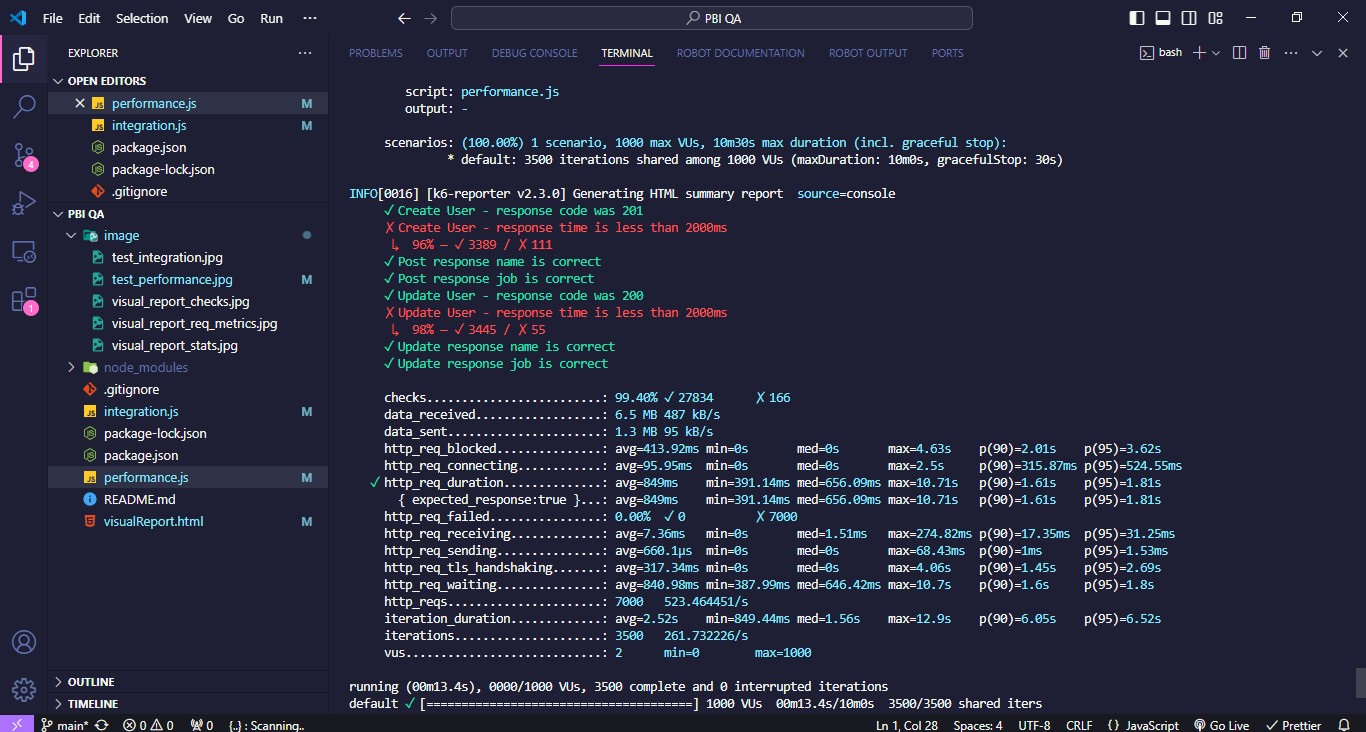
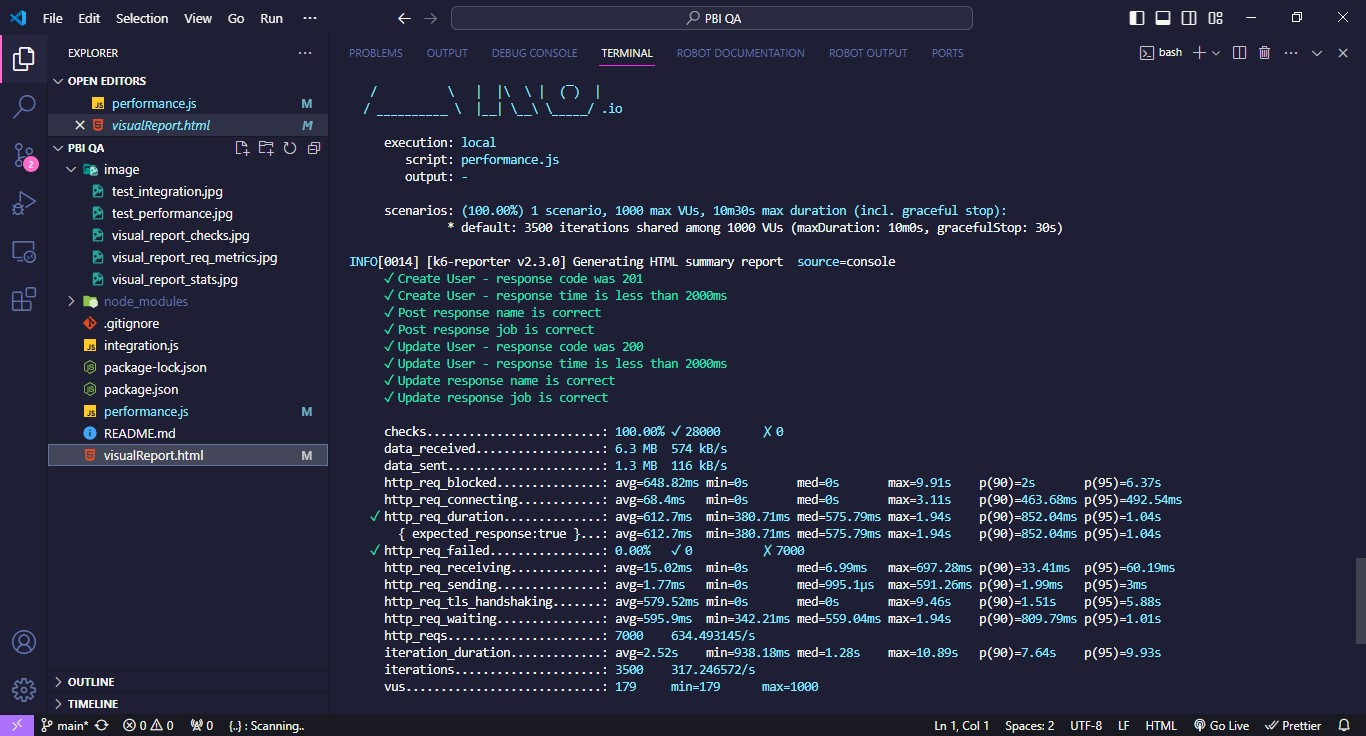
change: code performance

diff --git a/visualReport.html b/visualReport.html
@@ -9,7 +9,7 @@
     <link rel="shortcut icon" href="https://raw.githubusercontent.com/benc-uk/k6-reporter/main/assets/icon.png" type="image/png">
 
     <meta name="viewport" content="width=device-width, initial-scale=1.0" />
-    <title>K6 Load Test: 2024-03-01 15:13</title>
+    <title>K6 Load Test: 2024-03-05 13:12</title>
     <style>
       body {
         margin: 1rem;
@@ -138,7 +138,7 @@
   <body>
     <h1>
       <svg style="vertical-align:middle" width="50" height="45" viewBox="0 0 50 45" fill="none" class="footer-module--logo--_lkxx"><path d="M31.968 34.681a2.007 2.007 0 002.011-2.003c0-1.106-.9-2.003-2.011-2.003a2.007 2.007 0 00-2.012 2.003c0 1.106.9 2.003 2.012 2.003z" fill="#7D64FF"></path><path d="M39.575 0L27.154 16.883 16.729 9.31 0 45h50L39.575 0zM23.663 37.17l-2.97-4.072v4.072h-2.751V22.038l2.75 1.989v7.66l3.659-5.014 2.086 1.51-3.071 4.21 3.486 4.776h-3.189v.001zm8.305.17c-2.586 0-4.681-2.088-4.681-4.662 0-1.025.332-1.972.896-2.743l4.695-6.435 2.086 1.51-2.239 3.07a4.667 4.667 0 013.924 4.6c0 2.572-2.095 4.66-4.681 4.66z" fill="#7D64FF"></path></svg> 
-      &nbsp; K6 Load Test: 2024-03-01 15:13
+      &nbsp; K6 Load Test: 2024-03-05 13:12
     </h1>
 
     <div class="row">
@@ -160,10 +160,10 @@
         <h4>Breached Thresholds</h4>
         <div class="bignum">0</div>
       </div>
-      <div class="box  failed ">
+      <div class="box ">
         <i class="fas fa-eye icon"></i>
         <h4>Failed Checks</h4>
-        <div class="bignum">166</div>
+        <div class="bignum">0</div>
       </div>
     </div>
 
@@ -202,27 +202,27 @@
                 
                 
                 
-                  <td class="">849.01</td>
+                  <td class="good">612.70</td>
                 
 
                 
-                  <td class="">10712.85</td>
+                  <td class="">1942.73</td>
                   
 
                 
-                  <td class="">656.10</td>
+                  <td class="">575.79</td>
                   
                 
                 
-                  <td class="">391.15</td>
+                  <td class="">380.72</td>
                    
                               
                 
-                  <td class="">1613.40</td>
+                  <td class="">852.05</td>
                 
 
                 
-                  <td class="good">1818.88</td>
+                  <td class="">1046.57</td>
                 
               </tr>
             
@@ -238,27 +238,27 @@
                 
                 
                 
-                  <td class="">840.98</td>
+                  <td class="">595.90</td>
                 
 
                 
-                  <td class="">10709.48</td>
+                  <td class="">1940.72</td>
                   
 
                 
-                  <td class="">646.43</td>
+                  <td class="">559.04</td>
                   
                 
                 
-                  <td class="">387.99</td>
+                  <td class="">342.21</td>
                    
                               
                 
-                  <td class="">1600.31</td>
+                  <td class="">809.80</td>
                 
 
                 
-                  <td class="">1803.08</td>
+                  <td class="">1015.01</td>
                 
               </tr>
             
@@ -274,11 +274,11 @@
                 
                 
                 
-                  <td class="">95.96</td>
+                  <td class="">68.41</td>
                 
 
                 
-                  <td class="">2502.53</td>
+                  <td class="">3112.59</td>
                   
 
                 
@@ -290,11 +290,11 @@
                    
                               
                 
-                  <td class="">315.87</td>
+                  <td class="">463.68</td>
                 
 
                 
-                  <td class="">524.56</td>
+                  <td class="">492.54</td>
                 
               </tr>
             
@@ -310,11 +310,11 @@
                 
                 
                 
-                  <td class="">317.34</td>
+                  <td class="">579.52</td>
                 
 
                 
-                  <td class="">4068.60</td>
+                  <td class="">9464.49</td>
                   
 
                 
@@ -326,11 +326,11 @@
                    
                               
                 
-                  <td class="">1455.71</td>
+                  <td class="">1512.72</td>
                 
 
                 
-                  <td class="">2690.63</td>
+                  <td class="">5882.34</td>
                 
               </tr>
             
@@ -346,15 +346,15 @@
                 
                 
                 
-                  <td class="">0.66</td>
+                  <td class="">1.77</td>
                 
 
                 
-                  <td class="">68.43</td>
+                  <td class="">591.27</td>
                   
 
                 
-                  <td>-</td>
+                  <td class="">1.00</td>
                   
                 
                 
@@ -362,11 +362,11 @@
                    
                               
                 
-                  <td class="">1.00</td>
+                  <td class="">2.00</td>
                 
 
                 
-                  <td class="">1.54</td>
+                  <td class="">3.01</td>
                 
               </tr>
             
@@ -382,15 +382,15 @@
                 
                 
                 
-                  <td class="">7.36</td>
+                  <td class="">15.03</td>
                 
 
                 
-                  <td class="">274.83</td>
+                  <td class="">697.28</td>
                   
 
                 
-                  <td class="">1.52</td>
+                  <td class="">7.00</td>
                   
                 
                 
@@ -398,11 +398,11 @@
                    
                               
                 
-                  <td class="">17.35</td>
+                  <td class="">33.42</td>
                 
 
                 
-                  <td class="">31.25</td>
+                  <td class="">60.20</td>
                 
               </tr>
             
@@ -418,11 +418,11 @@
                 
                 
                 
-                  <td class="">413.93</td>
+                  <td class="">648.83</td>
                 
 
                 
-                  <td class="">4638.22</td>
+                  <td class="">9911.32</td>
                   
 
                 
@@ -434,11 +434,11 @@
                    
                               
                 
-                  <td class="">2012.98</td>
+                  <td class="">2007.53</td>
                 
 
                 
-                  <td class="">3623.88</td>
+                  <td class="">6371.32</td>
                 
               </tr>
             
@@ -454,27 +454,27 @@
                 
                 
                 
-                  <td class="">2529.06</td>
+                  <td class="">2528.78</td>
                 
 
                 
-                  <td class="">12900.17</td>
+                  <td class="">10894.24</td>
                   
 
                 
-                  <td class="">1560.49</td>
+                  <td class="">1283.40</td>
                   
                 
                 
-                  <td class="">849.45</td>
+                  <td class="">938.19</td>
                    
                               
                 
-                  <td class="">6052.73</td>
+                  <td class="">7649.56</td>
                 
 
                 
-                  <td class="">6521.76</td>
+                  <td class="">9932.38</td>
                 
               </tr>
             
@@ -500,8 +500,8 @@
             <div class="box metricbox">
               <h4>Checks</h4>
               <i class="fas fa-eye icon"></i>
-              <div class="row"><div>Passed</div><div>27834</div></div>
-              <div class="row"><div>Failed</div><div>166</div></div>
+              <div class="row"><div>Passed</div><div>28000</div></div>
+              <div class="row"><div>Failed</div><div>0</div></div>
             </div>
           
 
@@ -510,14 +510,14 @@
               <h4>Iterations</h4>
               <i class="fas fa-redo icon"></i>
               <div class="row"><div>Total</div><div>3500</div></div>
-              <div class="row"><div>Rate</div><div>261.73/s</div></div>
+              <div class="row"><div>Rate</div><div>317.25/s</div></div>
             </div>
           
 
           <div class="box metricbox">
             <h4>Virtual Users</h4>
             <i class="fas fa-user icon"></i>
-            <div class="row"><div>Min</div><div>0</div></div>
+            <div class="row"><div>Min</div><div>179</div></div>
             <div class="row"><div>Max</div><div>1000</div></div>
           </div>
         </div>
@@ -527,21 +527,21 @@
             <h4>Requests</h4>
             <i class="fas fa-globe icon"></i>
             <div class="row"><div>Total</div><div>7000</div></div>
-            <div class="row"><div>Rate</div><div>523.46/s</div></div>
+            <div class="row"><div>Rate</div><div>634.49/s</div></div>
           </div>
 
           <div class="box metricbox">
             <h4>Data Received</h4>
             <i class="fas fa-cloud-download-alt icon"></i>
-            <div class="row"><div>Total</div><div>6.51 MB</div></div>
-            <div class="row"><div>Rate</div><div>0.49 mB/s</div></div>
+            <div class="row"><div>Total</div><div>6.33 MB</div></div>
+            <div class="row"><div>Rate</div><div>0.57 mB/s</div></div>
           </div>
 
           <div class="box metricbox">
             <h4>Data Sent</h4>
             <i class="fas fa-cloud-upload-alt icon"></i>
             <div class="row"><div>Total</div><div>1.27 MB</div></div>
-            <div class="row"><div>Rate</div><div>0.10 mB/s</div></div>
+            <div class="row"><div>Rate</div><div>0.12 mB/s</div></div>
           </div>   
         </div>
       </div>  
@@ -567,8 +567,8 @@
               <td width="50%">Create User - response code was 201</td><td>3500</td><td>0</td>
             </tr>
           
-            <tr class="checkDetails failed">
-              <td width="50%">Create User - response time is less than 2000ms</td><td>3389</td><td>111</td>
+            <tr class="checkDetails ">
+              <td width="50%">Create User - response time is less than 2000ms</td><td>3500</td><td>0</td>
             </tr>
           
             <tr class="checkDetails ">
@@ -583,8 +583,8 @@
               <td width="50%">Update User - response code was 200</td><td>3500</td><td>0</td>
             </tr>
           
-            <tr class="checkDetails failed">
-              <td width="50%">Update User - response time is less than 2000ms</td><td>3445</td><td>55</td>
+            <tr class="checkDetails ">
+              <td width="50%">Update User - response time is less than 2000ms</td><td>3500</td><td>0</td>
             </tr>
           
             <tr class="checkDetails ">

diff --git a/performance.js b/performance.js
@@ -7,7 +7,8 @@ export const options = {
     vus: 1000,
     iterations: 3500,
     thresholds: {
-        http_req_duration: ["p(95)<2000"],
+        http_req_duration: ["avg<2000"],
+        http_req_failed: ["rate < 0.1"],
     },
 };
 
